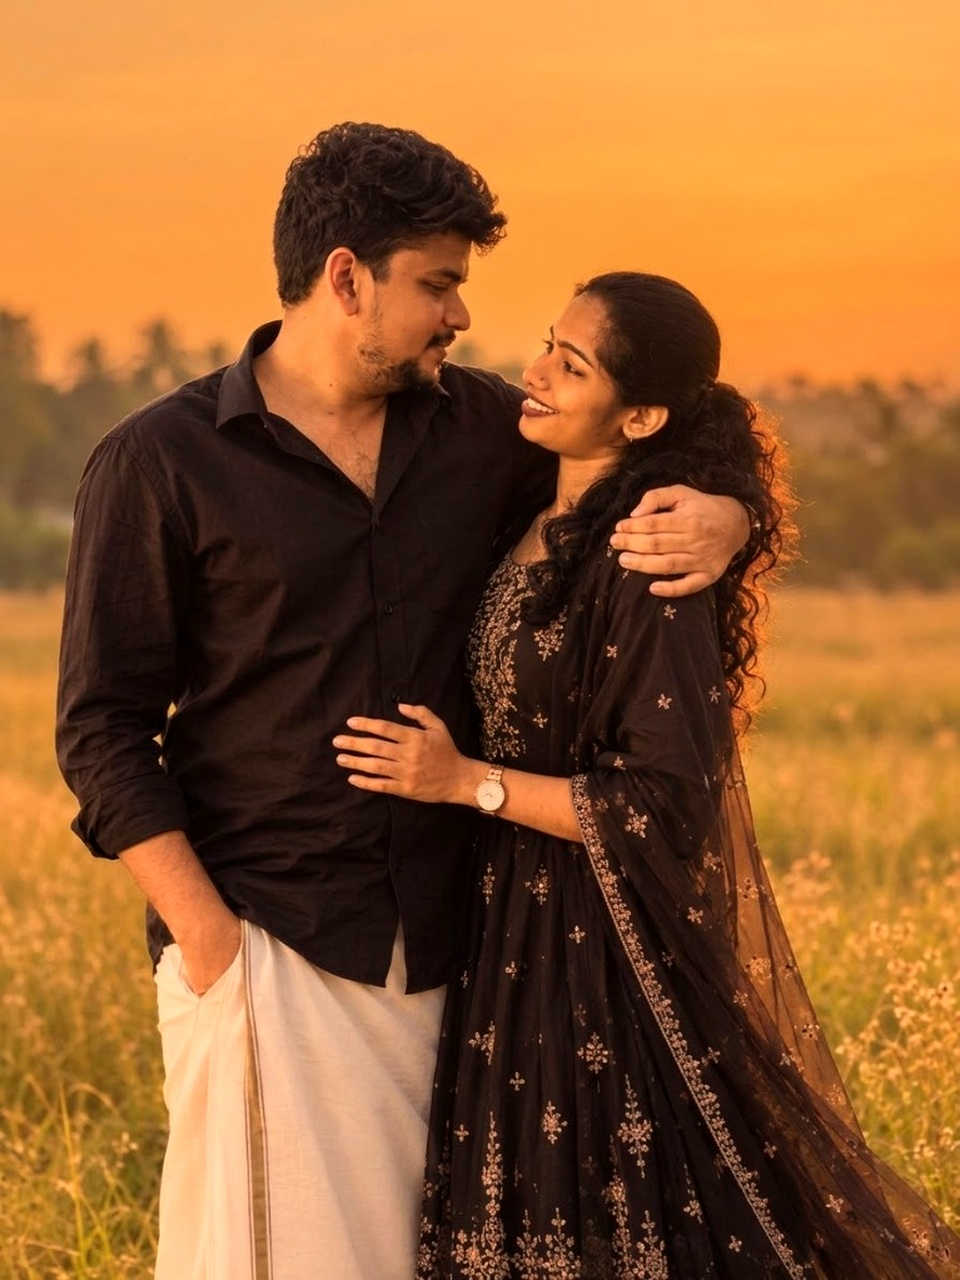
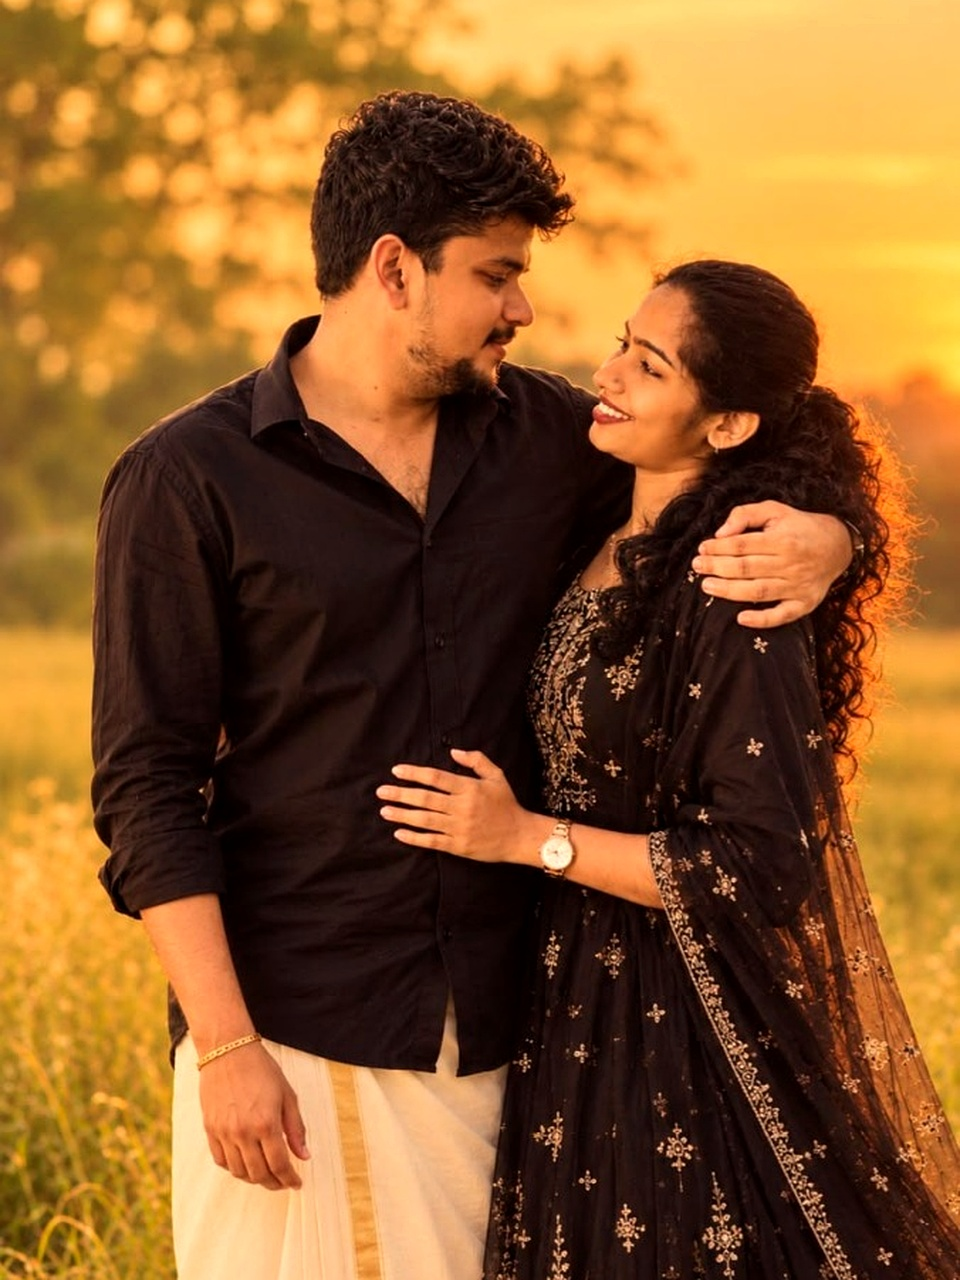
Update Tap to reveal photo and change mother's name to Mrs. Sajitha Kumari

diff --git a/index.html b/index.html
@@ -1650,7 +1650,7 @@
       <div class="section-inner">
         <div class="eyebrow reveal">With Hearts Full Of Joy</div>
         <div class="couple-photo reveal reveal-d1">
-          <img src="assets/gallery-4.jpg?v=4" alt="Sanooj and Sneja">
+          <img src="assets/gallery-4.jpg?v=5" alt="Sanooj and Sneja">
           <div class="couple-photo-overlay">
             <div class="tap-icon">
               <svg width="24" height="24" viewBox="0 0 24 24" fill="none" stroke="currentColor" stroke-width="2">
@@ -1754,7 +1754,7 @@
             <div class="rel">The Groom</div>
             <div class="who serif">Sanooj</div>
             <div class="of">Son Of</div>
-            <div class="parents">Late Mohan K. &amp; Mrs. Sajitha Kumari K. K.</div>
+            <div class="parents">Late Mohan K. &amp; Mrs. Sajitha Kumari</div>
             <div class="addr">Vallath House, Nadapuram Road,<br>Madappally College, Vatakara</div>
           </div>
           <div class="family-divider reveal reveal-d2"></div>
